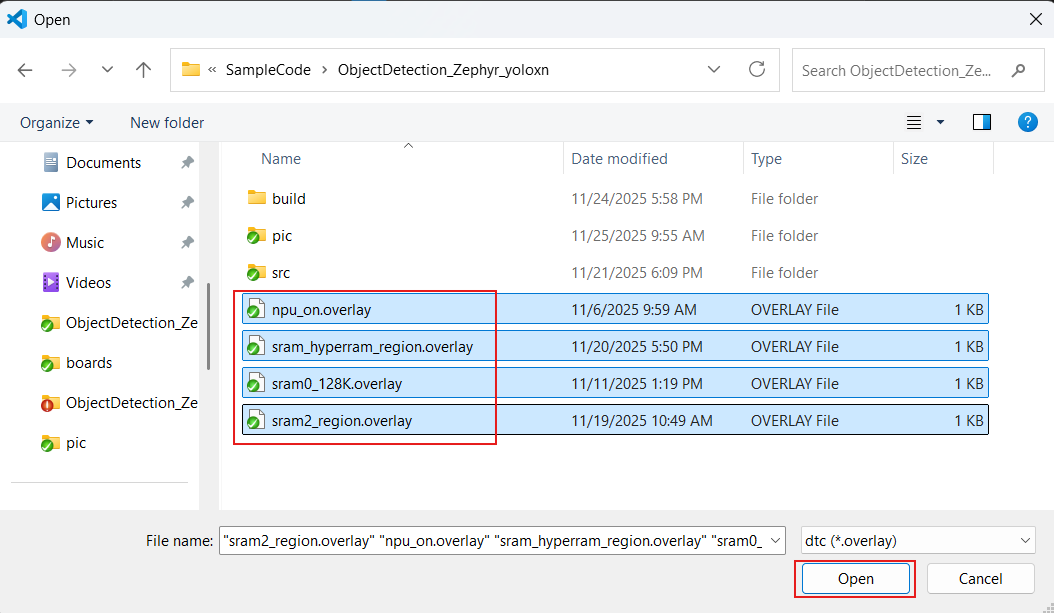
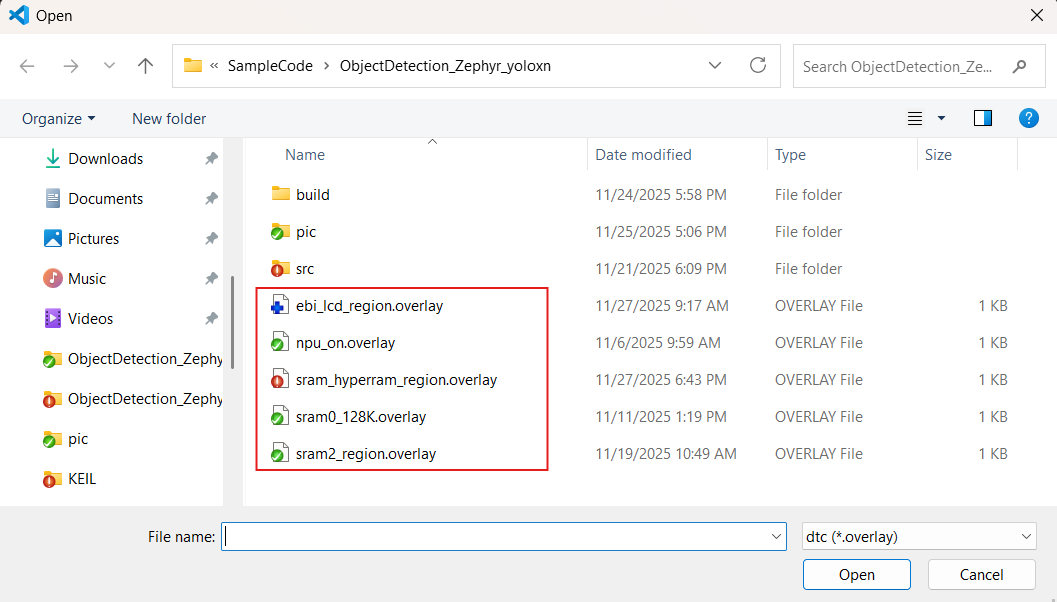
Support LCD display

diff --git a/ZephyrSamples/SampleCode/ObjectDetection_Zephyr_yoloxn/src/Device/Display/LCD/LCD_LT7381.c b/ZephyrSamples/SampleCode/ObjectDetection_Zephyr_yoloxn/src/Device/Display/LCD/LCD_LT7381.c
@@ -130,6 +130,7 @@ static void lt7381_wait_ready(void)
             LCD_Delay_MilliSec(2);
             LT7381_WRITE_REG(0x01);
             u16RegData = LT7381_READ_DATA();
+
             if ((u16RegData & BIT7) == BIT7)
             {
                 break;
@@ -150,10 +151,7 @@ static void lt7381_wait_ready(void)
 
     LCD_Delay_MilliSec(100);
 
-    while (LT7381_READ_STATUS() & BIT1)
-    {
-        LCD_Delay_MilliSec(1);
-    }
+    while (LT7381_READ_STATUS() & BIT1);
 }
 
 static void lt7381_sw_reset(void)
@@ -168,17 +166,17 @@ static void lt7381_initial_pll(void)
     LT7381_WRITE_REG(0x05);
     LT7381_WRITE_DATA((s_PllSettings[XI_IN].lpllOD_sclk << 6) |
                       (s_PllSettings[XI_IN].lpllR_sclk << 1) |
-                      ((s_PllSettings[XI_IN].lpllN_sclk >> 8) & 0x1));
+                      (s_PllSettings[XI_IN].lpllN_sclk >> 8) & 0x1);
 
     LT7381_WRITE_REG(0x07);
     LT7381_WRITE_DATA((s_PllSettings[XI_IN].lpllOD_mclk << 6) |
                       (s_PllSettings[XI_IN].lpllR_mclk << 1) |
-                      ((s_PllSettings[XI_IN].lpllN_mclk >> 8) & 0x1));
+                      (s_PllSettings[XI_IN].lpllN_mclk >> 8) & 0x1);
 
     LT7381_WRITE_REG(0x09);
     LT7381_WRITE_DATA((s_PllSettings[XI_IN].lpllOD_cclk << 6) |
                       (s_PllSettings[XI_IN].lpllR_cclk << 1) |
-                      ((s_PllSettings[XI_IN].lpllN_cclk >> 8) & 0x1));
+                      (s_PllSettings[XI_IN].lpllN_cclk >> 8) & 0x1);
 
     LT7381_WRITE_REG(0x06);
     LT7381_WRITE_DATA(s_PllSettings[XI_IN].lpllN_sclk);
@@ -215,10 +213,7 @@ static void lt7381_initial_sdram(void)
 
     /*  0: SDRAM is not ready for access
         1: SDRAM is ready for access        */
-    while ((LT7381_READ_STATUS() & BIT2) == 0x00)
-    {
-        LCD_Delay_MilliSec(1);
-    }
+    while ((LT7381_READ_STATUS() & BIT2) == 0x00);
 
     LCD_Delay_MilliSec(1);
 }
@@ -537,7 +532,7 @@ static int32_t lt7381_init(void)
     lt7381_initial_main_window();
 
     SET_BACKLIGHT_ON;
-    printf("LT7381 Init done.\n");
+
     return 0;
 }
 

diff --git a/ZephyrSamples/SampleCode/ObjectDetection_Zephyr_yoloxn/src/main.cpp b/ZephyrSamples/SampleCode/ObjectDetection_Zephyr_yoloxn/src/main.cpp
@@ -48,8 +48,19 @@
     #include "UVC.h"
 #endif
 
+#if defined (__USE_LCD__)
+    #include "Display.h"
+#endif
+
 // Model location when loaded from SD card to HyperRAM
 #define MODEL_AT_HYPERRAM_ADDR 0x82400000
+
+#define IMAGE_DISP_UPSCALE_FACTOR 1
+#if defined(LT7381_LCD_PANEL)
+#define FONT_DISP_UPSCALE_FACTOR 2
+#else
+#define FONT_DISP_UPSCALE_FACTOR 1
+#endif
 
 //Used by omv library
 #if defined(__USE_UVC__)
@@ -545,6 +556,14 @@ void main_task(void *pvArgs1, void *pvArgs2, void *pvArgs3)
     HSUSBD_Start();
 #endif
 
+#if defined (__USE_LCD__)
+    char szDisplayText[160];
+    S_DISP_RECT sDispRect;
+
+    Display_Init();
+    Display_ClearLCD(C_WHITE);
+#endif
+
 	while(1)
 	{
         // Get empty frame buffer to store captured image
@@ -635,6 +654,29 @@ void main_task(void *pvArgs1, void *pvArgs2, void *pvArgs3)
             //draw bbox and render
             /* Draw boxes. */
             DrawImageDetectionBoxes(infFramebuf->results, &infFramebuf->frameImage, labels);
+
+#if defined (__USE_LCD__)
+            //Display image on LCD
+            sDispRect.u32TopLeftX = 0;
+            sDispRect.u32TopLeftY = 0;
+            sDispRect.u32BottonRightX = ((dispImage.w * IMAGE_DISP_UPSCALE_FACTOR) - 1);
+            sDispRect.u32BottonRightY = ((dispImage.h * IMAGE_DISP_UPSCALE_FACTOR) - 1);
+
+#if defined(__PROFILE__)
+            u64StartCycle = pmu_get_systick_Count();
+#endif
+
+            Display_FillRect((uint16_t *)infFramebuf->frameImage.data, &sDispRect, IMAGE_DISP_UPSCALE_FACTOR);
+
+#if defined(__PROFILE__)
+            u64EndCycle = pmu_get_systick_Count();
+            info("display image cycles %llu \n", (u64EndCycle - u64StartCycle));
+#endif
+
+#endif
+
+
+
 
 #if defined (__USE_UVC__)
 

diff --git a/ZephyrSamples/SampleCode/ObjectDetection_Zephyr_yoloxn/src/BoardInit.cpp b/ZephyrSamples/SampleCode/ObjectDetection_Zephyr_yoloxn/src/BoardInit.cpp
@@ -73,6 +73,8 @@ static void SYS_Init(void)
 #endif
 }
 
+extern uint8_t  __sram_hyperram_end;
+
 /**
   * @brief Initiate the hardware resources of board
   * @return 0: Success, <0: Fail
@@ -91,6 +93,13 @@ int BoardInit(void)
     HyperRAM_Init(HYPERRAM_SPIM_PORT);
     /* Enter direct-mapped mode to run new applications */
     SPIM_HYPER_EnterDirectMapMode(HYPERRAM_SPIM_PORT);
+#else
+    if((uint32_t)(&__sram_hyperram_end)>= SPIM_HYPER_DMM0_ADDR)
+    {
+        printf("Error: The data in the sram_hyperram region exceeds the SRAM limit. \n"); 
+        printf("Please enable the CONFIG_APP_OD_USING_HYPERRAM option.\n");
+        return -1;
+    }
 #endif
 
 #if defined(__LOAD_MODEL_FROM_SD__)

diff --git a/ZephyrSamples/SampleCode/ObjectDetection_Zephyr_yoloxn/src/Device/Display/Display.c b/ZephyrSamples/SampleCode/ObjectDetection_Zephyr_yoloxn/src/Device/Display/Display.c
@@ -14,6 +14,7 @@
 
 #include "pmu_counter.h"
 
+#if defined(__EBI_LCD_PANEL__) || defined(__SPI_LCD_PANEL__)
 
 #if defined(__EBI_LCD_PANEL__)
 
@@ -283,3 +284,5 @@ uint32_t Disaplay_GetLCDHeight(void)
 {
     return s_psLCD->m_u16Height;
 }
+
+#endif //defined(__EBI_LCD_PANEL__) || defined(__SPI_LCD_PANEL__)

diff --git a/ZephyrSamples/SampleCode/ObjectDetection_Zephyr_yoloxn/README.md b/ZephyrSamples/SampleCode/ObjectDetection_Zephyr_yoloxn/README.md
@@ -19,13 +19,10 @@ Key Features:
     - Inference task: Processes AI inference independently
     - Uses Zephyr message queues for thread synchronization
 5. Optional Features:
-    - UVC (USB Video Class): Stream results over USB
+    - UVC (USB Video Class): Stream results image over USB
     - SD Card Support: Load the model from SD card instead of embedding it
     - Profiling: Performance monitoring and cycle counting
-6. Supported Configurations (Kconfig):
-    - Enable/disable application profiling
-    - Toggle UVC image streaming
-    - Load model from SD card or use embedded model
+    - LCD display: Show results image over LCD
 
 Software Stack:
 - TensorFlow Lite Micro with CMSIS-NN optimization
@@ -58,12 +55,13 @@ YOLOX-Nano is an ultra-lightweight YOLOX model optimized for low-power devices (
 ## Memory(RAM) Region ##
 This sample demonstrates the regions of the M55M1 memory in the following:
 
-| Region | Address | Size | M55M1 RAM | Data Type|
-|:----|:----|:----|:----|:----|
-|RAM|0x20100000|128KB|Part of SRAM0|Kernel read-write data|
-|DTCM|0x20000000|128KB|DTCM|System heap and stack|
-|SRAM2|0x20200000|320KB|SRAM2|Non-cachable, CCAP image frame buffer|
-|SRAM_HYPERRAM|0x81F20000|4000KB|Part of SRAM0, SRAM1 and HyperRAM|Model arena cache|
+| Region | Address | Size | Memory Type | Data Context | DTC Overlay | Memory Attribute |
+|:----|:----|:----|:----|:----|:----|:----| 
+|RAM|0x20100000|128KB|Part of SRAM0|Kernel read-write data|sram0_128K.overlay|DT_MEM_ARM_MPU_RAM|
+|DTCM|0x20000000|128KB|DTCM|System heap and stack||DT_MEM_ARM_MPU_RAM|
+|SRAM2|0x20200000|320KB|SRAM2|Non-cachable, CCAP image frame buffer|sram2_region.overlay|DT_MEM_ARM_MPU_RAM_NOCACHE|
+|SRAM_HYPERRAM|0x81F20000|4000KB|Part of SRAM0, SRAM1 and HyperRAM|Model arena cache|sram_hyperram_region.overlay|DT_MEM_ARM_MPU_RAM_NOCACHE|
+|EBI0|0x60000000|1024KB|EBI0|MPU-type LCD device|ebi_lcd_region.overlay|DT_MEM_ARM_MPU_DEVICE|
 
 ## Setup and Build ##
 This sample is based on Zephyr RTOS. Please follow the steps below to install and setup the compilation environment.
@@ -129,6 +127,7 @@ This sample supports the following application configurations. You can change th
 - ```CONFIG_APP_OD_UVC_SHOW_IMAGE``` (default y): Enable/disable the display of the result image over UVC connect.
 - ```CONFIG_APP_OD_MODEL_FROM_SD``` (default n): Support loading model from SD card to HyperRAM
 - ```CONFIG_APP_OD_USING_HYPERRAM``` (default n): Using HyperRAM for arena/model space 
+- ```CONFIG_APP_OD_LCD_SHOW_IMAGE``` (default n): Enable/disable the display of the result image over LCD.
 
 ## Performance
 1. Memory usage
@@ -146,8 +145,7 @@ System clock: 220MHz
 
 |Display(show result)| Applicaton Frame Rate (fps) |  
 |:------|:-------------------------|
-|Console| 17|
+|Console| 16|
 |Console + UVC| 14|
-
-
+|Console + LCD| 15|
 

diff --git a/ZephyrSamples/Doc/Zephyr/Zephyr IDE with NuMicro Cortex-M on VSCode.md b/ZephyrSamples/Doc/Zephyr/Zephyr IDE with NuMicro Cortex-M on VSCode.md
@@ -22,23 +22,23 @@ altitude: 0.0000
     ![32a4535ecff90d2cf5a45469aea7bef0.png](../_resources/32a4535ecff90d2cf5a45469aea7bef0.png)
 2.  Install Host Tools  
     ![a6b57619b8b93c5b00db31157e3d93bf.png](../_resources/a6b57619b8b93c5b00db31157e3d93bf.png)
-3.  Install SDK(Toolchain)  
+3.  Open a workspace folder and run workspace setup  
+![255b88efb2ced12c887587bd73f59798.png](../_resources/255b88efb2ced12c887587bd73f59798.png)  
+![22ab97cc2a690a225f25ec207881b143.png](../_resources/22ab97cc2a690a225f25ec207881b143.png)  
+![a33ab99cc0c067424edc5fd25ed9fe28.png](../_resources/a33ab99cc0c067424edc5fd25ed9fe28.png)  
+![6fabead9080415449cd253be7c353720.png](../_resources/6fabead9080415449cd253be7c353720.png)  
+![171fff85d2ad9af647bc5a27a32bd97d.png](../_resources/171fff85d2ad9af647bc5a27a32bd97d.png)  
+4.  After a few minutes... The workspace folder would be  
+![cc592de76e0b6ac4f3736ff1951f3be9.png](../_resources/cc592de76e0b6ac4f3736ff1951f3be9.png)  
+5. Activate workspace  
+![ad14229894d0f3820625fc225d8be0ac.png](../_resources/ad14229894d0f3820625fc225d8be0ac.png)  
+6.  Install SDK(Toolchain)  
     Toolchain install path would be `C:\Users\chche\.zephyr_ide\toolchains`
 ![43af29d262dad98f997b1f3e754a0833.png](../_resources/43af29d262dad98f997b1f3e754a0833.png)  
 ![b7f7e103f8f6b09a85ca527463177d03.png](../_resources/b7f7e103f8f6b09a85ca527463177d03.png)  
 ![e1c1e5f0dc0390a73e23651add40779d.png](../_resources/e1c1e5f0dc0390a73e23651add40779d.png)  
 ![319b0806f6861dddc68679e418e2be72.png](../_resources/319b0806f6861dddc68679e418e2be72.png)  
 ![223cc2a898fa653a29935fb481efffc1.png](../_resources/223cc2a898fa653a29935fb481efffc1.png)  
-4.  Open a workspace folder and run workspace setup  
-![255b88efb2ced12c887587bd73f59798.png](../_resources/255b88efb2ced12c887587bd73f59798.png)  
-![22ab97cc2a690a225f25ec207881b143.png](../_resources/22ab97cc2a690a225f25ec207881b143.png)  
-![a33ab99cc0c067424edc5fd25ed9fe28.png](../_resources/a33ab99cc0c067424edc5fd25ed9fe28.png)  
-![6fabead9080415449cd253be7c353720.png](../_resources/6fabead9080415449cd253be7c353720.png)  
-![171fff85d2ad9af647bc5a27a32bd97d.png](../_resources/171fff85d2ad9af647bc5a27a32bd97d.png)  
-5.  After a few minutes... The workspace folder would be  
-![cc592de76e0b6ac4f3736ff1951f3be9.png](../_resources/cc592de76e0b6ac4f3736ff1951f3be9.png)  
-6. Activate workspace  
-![ad14229894d0f3820625fc225d8be0ac.png](../_resources/ad14229894d0f3820625fc225d8be0ac.png)  
 7.  Run "West Update"  
 ![6c9e7b91468e9da9cf003fd6051df482.png](../_resources/6c9e7b91468e9da9cf003fd6051df482.png)  
 
